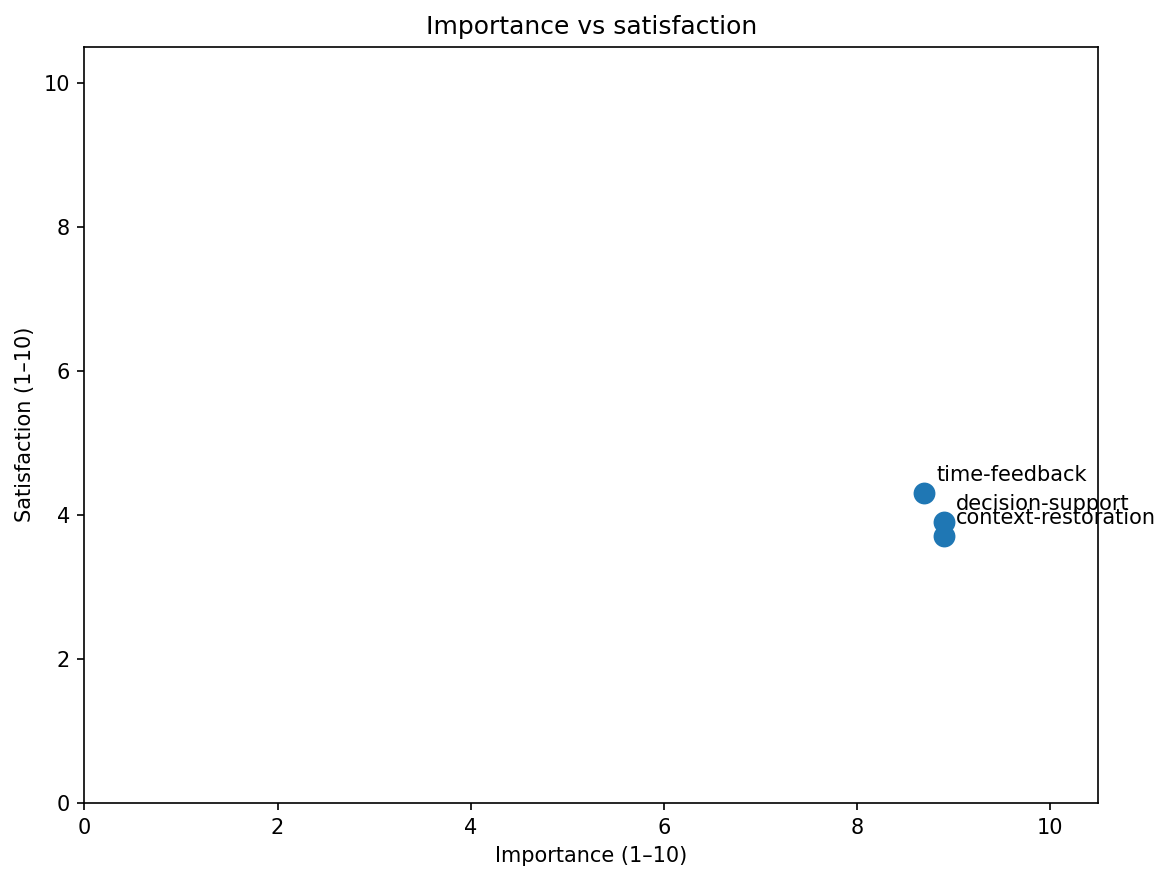
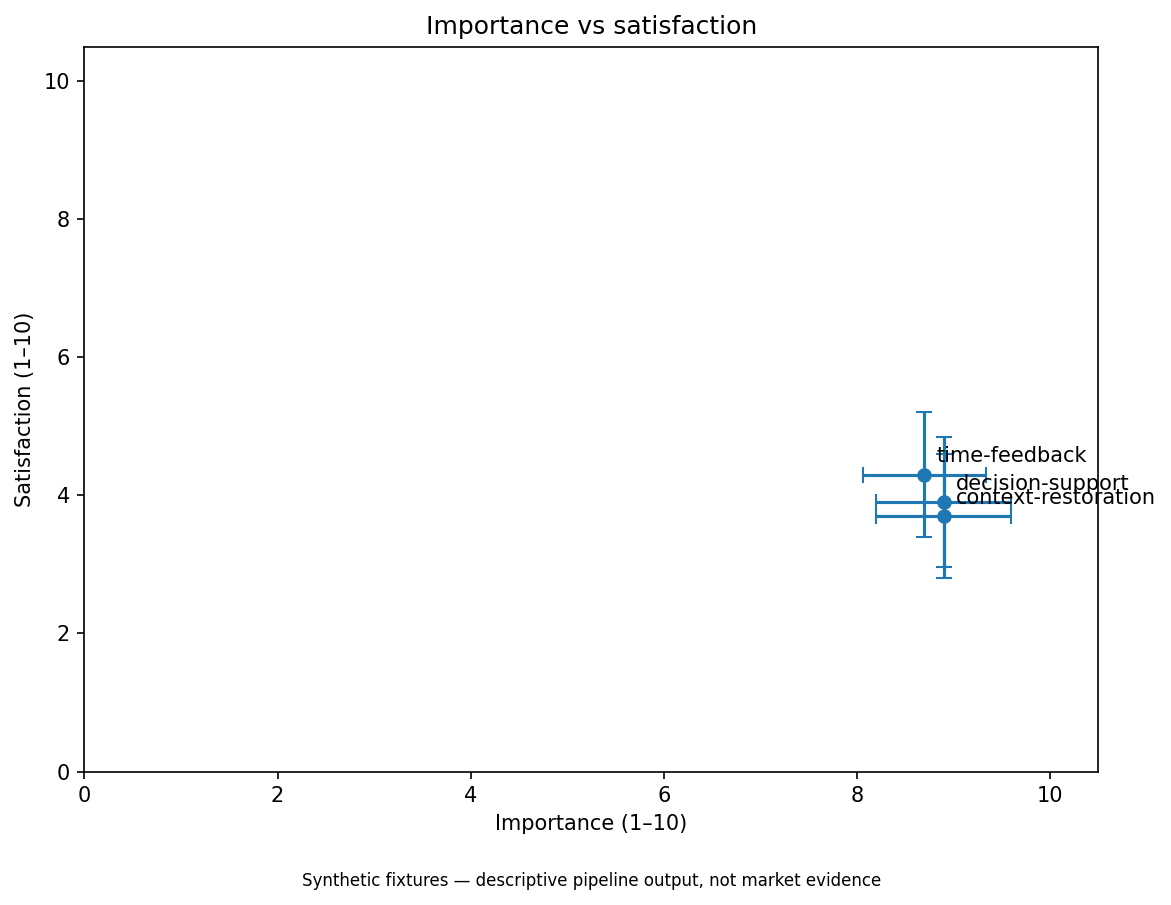
feat(jtbd): add evidence grading outcomes and validation protocol

diff --git a/src/satisfaction_analysis.py b/src/satisfaction_analysis.py
@@ -16,29 +16,46 @@ def _classification(importance: float, satisfaction: float) -> str:
     return "balanced"
 
 
+def _evidence_grade(empirical_sources: int) -> str:
+    if empirical_sources == 0:
+        return "synthetic-only"
+    if empirical_sources < 3:
+        return "low"
+    if empirical_sources < 5:
+        return "medium"
+    return "high"
+
+
 def aggregate_jtbd_scores(source: str | Path) -> pd.DataFrame:
-    """Aggregate interview feature rows into one deterministic record per JTBD."""
+    """Aggregate research rows into descriptive records per JTBD.
+
+    Scores are descriptive. Evidence grade is deliberately separated from the numeric
+    opportunity score so synthetic volume cannot masquerade as empirical confidence.
+    """
     frame = pd.read_csv(source)
+    frame["is_empirical"] = frame.get("evidence_type", "synthetic-fixture") != "synthetic-fixture"
     grouped = (
         frame.groupby("jtbd", as_index=False)
         .agg(
             importance=("importance", "mean"),
             satisfaction=("satisfaction", "mean"),
             confidence=("confidence", "mean"),
+            n_fixtures=("interview_id", "count"),
+            importance_sd=("importance", lambda s: float(s.std(ddof=0))),
+            satisfaction_sd=("satisfaction", lambda s: float(s.std(ddof=0))),
+            empirical_sources=("is_empirical", "sum"),
         )
         .sort_values("jtbd")
         .reset_index(drop=True)
     )
     grouped["opportunity"] = grouped.apply(
-        lambda row: opportunity_score(float(row["importance"]), float(row["satisfaction"])),
-        axis=1,
+        lambda row: opportunity_score(float(row["importance"]), float(row["satisfaction"])), axis=1
     )
     grouped["classification"] = grouped.apply(
-        lambda row: _classification(float(row["importance"]), float(row["satisfaction"])),
-        axis=1,
+        lambda row: _classification(float(row["importance"]), float(row["satisfaction"])), axis=1
     )
     grouped["solution_job_fit"] = grouped.apply(
-        lambda row: solution_job_fit(float(row["importance"]), float(row["satisfaction"])),
-        axis=1,
+        lambda row: solution_job_fit(float(row["importance"]), float(row["satisfaction"])), axis=1
     )
+    grouped["evidence_grade"] = grouped["empirical_sources"].map(lambda value: _evidence_grade(int(value)))
     return grouped

diff --git a/src/extract_jtbd.py b/src/extract_jtbd.py
@@ -1,4 +1,8 @@
-"""Normalize synthetic CustDev fixture scores from the CustomerDevelopment Git branch."""
+"""Normalize CustDev fields from the CustomerDevelopment Git branch.
+
+The current branch intentionally consumes the canonical research branch through Git rather
+than copying interview files, preserving branch-to-branch data lineage.
+"""
 from __future__ import annotations
 
 import re
@@ -23,6 +27,13 @@ def _extract(pattern: str, text: str) -> str:
     return match.group(1).strip()
 
 
+def _section(name: str, text: str) -> str:
+    match = re.search(rf"^## {re.escape(name)}\n(.+?)(?=\n## |\Z)", text, flags=re.MULTILINE | re.DOTALL)
+    if not match:
+        raise ValueError(f"Could not parse section: {name}")
+    return match.group(1).strip()
+
+
 def extract_features(output: str | Path = "data/interview_features.csv") -> pd.DataFrame:
     rows: list[dict[str, object]] = []
     for index in range(1, 31):
@@ -34,13 +45,24 @@ def extract_features(output: str | Path = "data/interview_features.csv") -> pd.D
         importance = float(_extract(r"## Importance score\n([0-9.]+)/10", text))
         satisfaction = float(_extract(r"## Satisfaction score\n([0-9.]+)/10", text))
         confidence = float(_extract(r"## Confidence score\n([0-9.]+)", text))
+        evidence_text = _section("Evidence type", text)
+        evidence_type = "synthetic-fixture" if evidence_text.startswith("Synthetic fixture") else "empirical"
         rows.append(
             {
                 "interview_id": interview_id,
+                "segment": _section("Persona / segment", text),
                 "jtbd": jtbd,
+                "context": _section("Context", text),
+                "trigger": _section("Trigger", text),
+                "pain": _section("Pain", text),
+                "workaround": _section("Existing workaround", text),
+                "functional_job": _section("Functional job", text),
+                "emotional_job": _section("Emotional job", text),
+                "social_job": _section("Social job", text),
                 "importance": importance,
                 "satisfaction": satisfaction,
                 "confidence": confidence,
+                "evidence_type": evidence_type,
             }
         )
     frame = pd.DataFrame(rows)

diff --git a/src/generate_all_diagrams.py b/src/generate_all_diagrams.py
@@ -16,7 +16,8 @@ EXPECTED_FILENAMES = [
 
 
 def _save(fig: plt.Figure, path: Path) -> Path:
-    fig.tight_layout()
+    fig.text(0.5, 0.005, "Synthetic fixtures — descriptive pipeline output, not market evidence", ha="center", fontsize=8)
+    fig.tight_layout(rect=(0, 0.035, 1, 1))
     fig.savefig(path, dpi=150, bbox_inches="tight")
     plt.close(fig)
     return path
@@ -36,7 +37,10 @@ def generate_all_diagrams(source: str | Path = "data/jtbd_scores.csv", output_di
     outputs.append(_save(fig, out / "jtbd-prioritization.png"))
 
     fig, ax = plt.subplots(figsize=(8, 6))
-    ax.scatter(frame["importance"], frame["satisfaction"], s=90)
+    if {"importance_sd", "satisfaction_sd"} <= set(frame.columns):
+        ax.errorbar(frame["importance"], frame["satisfaction"], xerr=frame["importance_sd"], yerr=frame["satisfaction_sd"], fmt="o", capsize=4)
+    else:
+        ax.scatter(frame["importance"], frame["satisfaction"], s=90)
     for row in frame.itertuples():
         ax.annotate(row.jtbd, (row.importance, row.satisfaction), xytext=(6, 6), textcoords="offset points")
     ax.set_title("Importance vs satisfaction")

diff --git a/tests/test_research_rigor.py b/tests/test_research_rigor.py
@@ -1,0 +1,23 @@
+from pathlib import Path
+
+from src.extract_jtbd import extract_features
+from src.satisfaction_analysis import aggregate_jtbd_scores
+
+
+def test_extraction_preserves_traceability_fields(tmp_path: Path):
+    output = tmp_path / 'features.csv'
+    frame = extract_features(output)
+    assert len(frame) == 30
+    assert {'segment','trigger','evidence_type','functional_job','emotional_job','social_job'} <= set(frame.columns)
+    assert set(frame['evidence_type']) == {'synthetic-fixture'}
+
+
+def test_aggregate_exposes_uncertainty_and_evidence_grade(tmp_path: Path):
+    output = tmp_path / 'features.csv'
+    frame = extract_features(output)
+    scores = aggregate_jtbd_scores(output)
+    assert len(scores) == 3
+    assert {'n_fixtures','importance_sd','satisfaction_sd','empirical_sources','evidence_grade'} <= set(scores.columns)
+    assert set(scores['n_fixtures']) == {10}
+    assert set(scores['empirical_sources']) == {0}
+    assert set(scores['evidence_grade']) == {'synthetic-only'}

diff --git a/methodology.md b/methodology.md
@@ -1,25 +1,51 @@
-# JTBD opportunity methodology
+# JTBD opportunity methodology v0.2
 
-This branch uses synthetic research fixtures to validate an analytical workflow. Results are **candidate USP hypotheses**, not scientific proof of demand.
+## Purpose
+This branch is a **reproducible descriptive research pipeline**. It turns the canonical `CustomerDevelopment` branch into normalized JTBD fields, scores and diagrams while keeping evidence provenance explicit.
 
-## Metrics
+The current input is synthetic. Therefore the workflow can validate data flow and falsifiable hypotheses, but it cannot scientifically prove demand or rank market opportunities.
 
-All importance and satisfaction scores use the 1–10 scale. Confidence uses 0.0–1.0.
+## Scientific-method discipline
 
-ODI-style opportunity score:
+1. **Observation:** preserve source episode, trigger, pain, workaround, functional/emotional/social job and evidence type.
+2. **Hypothesis:** state a falsifiable product/marketing claim before testing.
+3. **Prediction:** define a behavioral threshold (return, time saved, choice commitment, willingness to pay).
+4. **Experiment:** run on real users with a coherent segment and pre-declared metric.
+5. **Result:** store observed data without redefining success after the fact.
+6. **Update:** strengthen, weaken, split or reject the hypothesis.
+
+## Descriptive metrics
+
+Importance and satisfaction use the 1–10 fixture scale. The ODI-style opportunity score is:
 
 ```text
 Opportunity = Importance + max(Importance - Satisfaction, 0)
 ```
 
-Classification rules:
+This is a prioritization heuristic, not a statistical estimator.
 
+Classification rules:
 - **Underserved:** importance ≥ 7 and satisfaction ≤ 5.
 - **Overserved:** importance ≤ 6 and satisfaction ≥ 8.
-- **Balanced:** all other combinations.
+- **Balanced:** everything else.
 
-`solution_job_fit = satisfaction / importance`; a lower ratio with high importance indicates larger solution headroom. This ratio is descriptive and is not a validation statistic.
+`solution_job_fit = satisfaction / importance` is only a descriptive ratio.
+
+## Evidence grade is separate from score
+
+A high opportunity score cannot compensate for weak evidence.
+
+- `synthetic-only`: zero empirical sources.
+- `low`: 1–2 empirical sources.
+- `medium`: 3–4 empirical sources.
+- `high`: 5+ empirical sources, still subject to segment/source-quality review.
+
+The current three JTBD are all `synthetic-only`.
+
+## Uncertainty
+
+`importance_sd` and `satisfaction_sd` describe variation inside the generated fixture corpus. They are **not** sampling uncertainty for a real population. Confidence intervals, significance tests and prevalence estimates must wait for empirical data collected with an appropriate sampling design.
 
 ## Interpretation limit
 
-The generated corpus can validate scoring, sorting, visualizations, and downstream hypothesis generation. It cannot establish population prevalence, causal effects, statistical significance, or product-market fit.
+Differences such as 14.1 vs 13.9 are not meaningful evidence of one job being more important than another because the synthetic sample and scores were deliberately constructed. Treat all three as candidate problem spaces until real episodes replace fixtures.

diff --git a/candidate-usp.md b/candidate-usp.md
@@ -1,11 +1,35 @@
-# Candidate USP hypotheses
+# Candidate USP hypotheses v0.2
 
-> These candidates are derived from a synthetic fixture dataset. They are prompts for empirical validation, not scientifically proven USPs.
+> The current scores come from synthetic fixtures. They are a deterministic pipeline check, **not** scientific proof and **not** a valid basis for declaring a winner among the three JTBD.
 
-Based on the deterministic opportunity analysis:
+## The three candidate value propositions
 
-1. **Context restoration — opportunity 14.1.** Candidate proposition: *Automatically reconstruct the relevant context of a task or decision and show the next meaningful step with traceable source history.*
-2. **Decision support — opportunity 13.9.** Candidate proposition: *Turn ambiguous choices into explicit alternatives, criteria, evidence and a reversible recommendation rather than a generic AI answer.*
-3. **Objective time feedback — opportunity 13.1.** Candidate proposition: *Explain where time actually went and compare observed behavior with declared goals, using transparent evidence rather than self-reported productivity.*
+1. **Context restoration — synthetic opportunity 14.1.**  
+   Reconstruct the relevant state of work, show why previous decisions were made, expose open loops, and propose a next step with source lineage.
 
-A combined product hypothesis is that the strongest differentiation may come from a **traceable personal decision-and-context layer** that links actions, time, evidence and decisions. This must be tested with real respondents before it is treated as positioning.
+2. **Decision support — synthetic opportunity 13.9.**  
+   Turn ambiguous choices into explicit alternatives, criteria and evidence, preserving a rationale that can be revisited instead of returning a black-box AI answer.
+
+3. **Objective time feedback — synthetic opportunity 13.1.**  
+   Compare observed time/attention with declared goals through explainable categories and a weekly review rather than a guilt-oriented productivity score.
+
+## Stronger combined differentiation hypothesis
+
+The most defensible product idea is not "three productivity features." It is one **evidence layer for personal work**:
+
+```text
+what happened
+    ↓
+what context matters
+    ↓
+why a decision was made
+    ↓
+where attention went afterward
+    ↓
+what should be reviewed next
+```
+
+This bridge is the USP **hypothesis** to validate against task managers, time trackers, memory products and generic LLM workflows.
+
+## Decision rule
+Do not select the beachhead from 14.1 vs 13.9 vs 13.1. Select it from real segment evidence: recurrence × intensity × workaround cost × behavioral pull × trust feasibility.

diff --git a/outcome-map.md b/outcome-map.md
@@ -1,0 +1,44 @@
+# JTBD outcome map v0.1
+
+## JTBD 1 — Restore context
+
+**Situation:** returning after interruption, switching projects, or receiving new information.  
+**Functional job:** reconstruct facts, previous decisions, open loops and the next meaningful step.  
+**Emotional job:** regain confidence without the "I lost the thread" feeling.  
+**Social job:** re-enter collaboration prepared instead of asking others to reconstruct history.  
+**Desired outcome hypothesis:** reduce time-to-resume while preserving source traceability and uncertainty.
+
+Candidate measurable outcomes:
+- minutes from return to first meaningful action;
+- % recap statements with inspectable source;
+- correction rate / unsupported statement rate;
+- frequency of repeated manual search across the same sources.
+
+## JTBD 2 — Make a decision with evidence
+
+**Situation:** several plausible options compete and criteria are implicit or changing.  
+**Functional job:** compare alternatives against explicit criteria/evidence and commit to a reversible or irreversible choice.  
+**Emotional job:** reduce analysis fatigue without surrendering agency.  
+**Social job:** explain why the decision was made to stakeholders.  
+**Desired outcome hypothesis:** shorten decision setup and preserve rationale that remains understandable later.
+
+Candidate measurable outcomes:
+- time to explicit criteria;
+- option-to-decision conversion in a live case;
+- % recommendations rejected due to unsupported evidence;
+- rationale revisit rate within 14/30 days.
+
+## JTBD 3 — Get objective time-use feedback
+
+**Situation:** weekly review or low-progress moment where subjective busyness conflicts with priorities.  
+**Functional job:** compare observed attention allocation with declared goals and understand drift.  
+**Emotional job:** replace guilt/guessing with calm, explainable feedback.  
+**Social job:** communicate capacity and trade-offs with evidence.  
+**Desired outcome hypothesis:** help users change the following week's plan based on explainable evidence.
+
+Candidate measurable outcomes:
+- % activity confidently classified;
+- minutes of weekly review overhead;
+- goal-vs-time delta recognized by the user;
+- week-2 / week-4 review return rate;
+- number of next-week plan changes attributed to the review.

diff --git a/validation-protocol.md b/validation-protocol.md
@@ -1,0 +1,20 @@
+# Validation protocol — falsifiable tests for the three JTBD
+
+## V01 Context recovery
+**Hypothesis:** qualified users lose enough time reconstructing work context that a source-linked recap creates repeated pull.  
+**Pre-declared success:** ≥5 of 8 qualified concierge users save ≥10 self-timed minutes on a real return-to-task episode **and** ≥4 voluntarily bring a second episode within 14 days.  
+**Failure/revise:** savings are trivial, source correction burden is high, or second-use pull is absent.
+
+## V02 Decision support
+**Hypothesis:** exposing criteria/evidence is more valuable than a generic LLM recommendation.  
+**Test:** same live decision represented as generic answer vs criterion/evidence matrix.  
+**Pre-declared success:** ≥60% prefer the evidence representation and ≥4 of 8 save/revisit the rationale later.  
+**Failure/revise:** users only want a fast answer or do not revisit rationale.
+
+## V03 Time feedback
+**Hypothesis:** goal-vs-time evidence changes future planning and can become a weekly loop.  
+**Pre-declared success:** ≥50% of 10 qualified users return for week 2 without manual chasing and ≥40% make a concrete priority/schedule change attributable to the report.  
+**Failure/revise:** review feels like surveillance/admin or produces no behavioral change.
+
+## Trust guardrail
+Across all tests, unsupported/hallucinated evidence must remain below a pre-agreed correction threshold. Any privacy objection that blocks data connection is recorded as a product boundary signal, not dismissed as user error.

diff --git a/README.md b/README.md
@@ -1,8 +1,8 @@
 # JobesToBeDone
 
-Reproducible JTBD opportunity analysis derived from the synthetic `CustomerDevelopment` branch.
+Reproducible JTBD/outcome analysis derived directly from the `CustomerDevelopment` Git branch.
 
-> The spelling `JobesToBeDone` is retained intentionally. All outputs are analytical fixtures and candidate value propositions, not scientifically validated USPs.
+> The spelling `JobesToBeDone` is intentionally preserved from the project requirement. All current scores and diagrams are synthetic pipeline outputs, not validated market evidence.
 
 ## Run
 
@@ -12,4 +12,12 @@ python -m src.generate_all_diagrams
 python -m pytest tests -q
 ```
 
-Generated charts are committed under `Diagrams/`.
+The canonical `data/jtbd_scores.csv` is produced by `aggregate_jtbd_scores()` from the extracted branch data before diagrams are regenerated.
+
+## Research artifacts
+- `outcome-map.md` — functional/emotional/social jobs and measurable outcomes.
+- `methodology.md` — scientific-method guardrails and evidence grading.
+- `evidence-readiness.md` — explicit synthetic-vs-empirical state.
+- `validation-protocol.md` — falsifiable tests with pre-declared thresholds.
+- `candidate-usp.md` — candidate value propositions and combined evidence-layer hypothesis.
+- `Diagrams/` — six required descriptive charts, each marked as synthetic.

diff --git a/evidence-readiness.md b/evidence-readiness.md
@@ -1,0 +1,13 @@
+# Evidence readiness
+
+| JTBD | Synthetic fixtures | Empirical sources | Evidence grade | Can use for external market claim? |
+|---|---:|---:|---|---|
+| context-restoration | 10 | 0 | synthetic-only | No |
+| decision-support | 10 | 0 | synthetic-only | No |
+| time-feedback | 10 | 0 | synthetic-only | No |
+
+## Promotion rule
+A JTBD may move from a fixture hypothesis to a marketing insight only after source IDs point to real evidence and the research log documents segment, trigger, source type and contradictions.
+
+## Minimum validation target
+Before writing persona-level positioning from a job, collect at least 5 independent real episodes in one coherent segment and include negative/contradictory cases. This threshold is a practical research guardrail, not a statistical guarantee.
